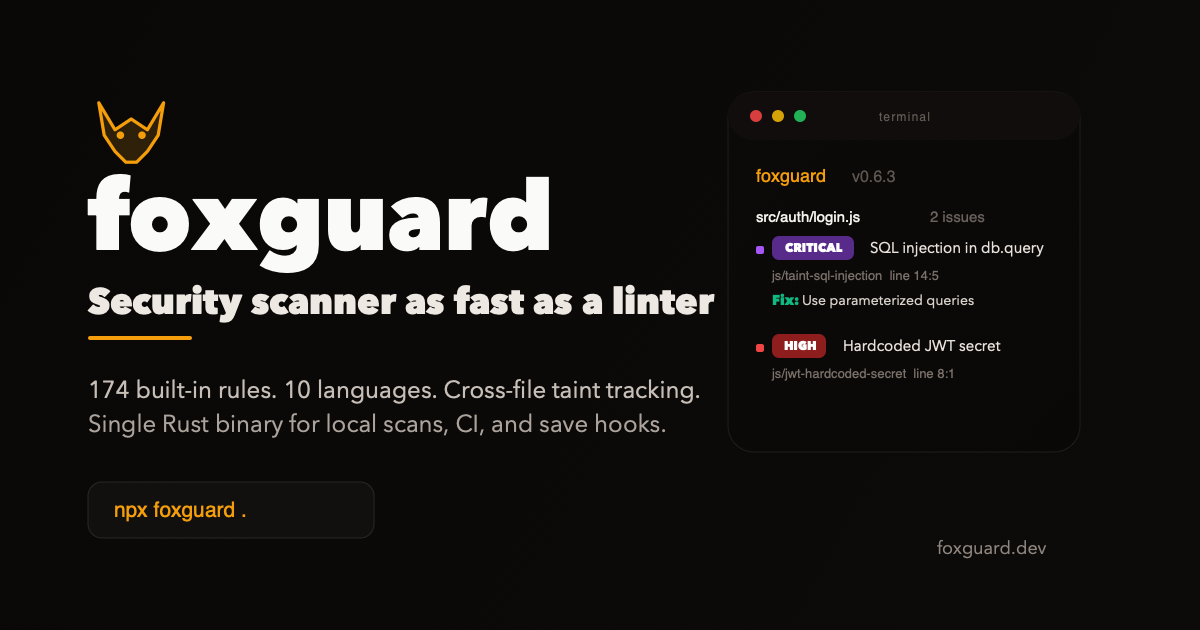
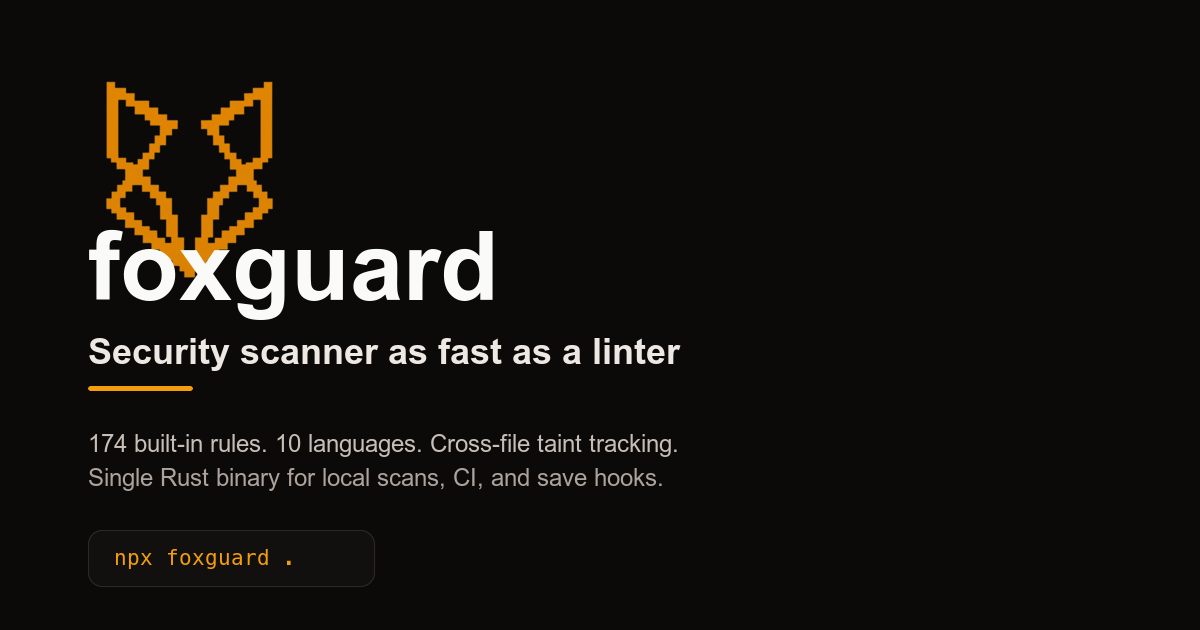
Refresh foxguard brand assets
The old inline SVG fox mark no longer matches the current Foxguard logo, so the README and website now use the checked-in PNG asset as the canonical mark. The web metadata also points at PNG favicon and OG assets so the deployed site updates consistently.\n\nConstraint: Only a PNG source logo was available locally; no separate vector source was present.\nRejected: Keep the old SVG favicon and README mark | that would leave public brand surfaces inconsistent with the new logo.\nConfidence: high\nScope-risk: narrow\nDirective: Do not reintroduce the deleted old fox-head SVGs without a matching current vector source.\nTested: npm run build in www\nNot-tested: Live CDN/social preview cache invalidation

diff --git a/README.md b/README.md
@@ -1,5 +1,5 @@
 <p align="center">
-  <img src="assets/logo.svg" width="80" alt="foxguard logo" />
+  <img src="assets/logo.png" width="96" alt="foxguard logo" />
 </p>
 
 <h1 align="center">𓃥 foxguard 𓃦</h1>